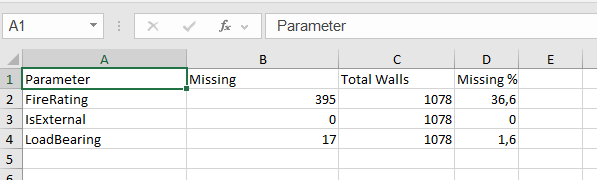
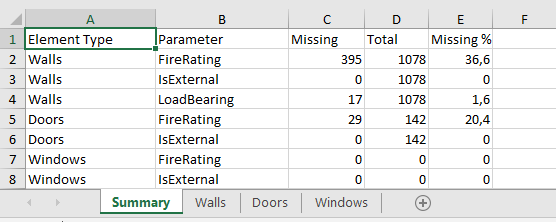
Add files via upload

diff --git a/check_elements.py b/check_elements.py
@@ -1,0 +1,49 @@
+import ifcopenshell
+import ifcopenshell.util.element as el
+from openpyxl import Workbook
+from collections import Counter
+
+IFC_FILE = "ornek.ifc"  # change to your IFC file name
+
+# element type -> (sheet name, property set, parameters to check)
+CHECKS = {
+    "IfcWall": ("Walls", "Pset_WallCommon", ["FireRating", "IsExternal", "LoadBearing"]),
+    "IfcDoor": ("Doors", "Pset_DoorCommon", ["FireRating", "IsExternal"]),
+    "IfcWindow": ("Windows", "Pset_WindowCommon", ["FireRating", "IsExternal"]),
+}
+
+model = ifcopenshell.open(IFC_FILE)
+wb = Workbook()
+wb.remove(wb.active)
+
+summary_rows = []
+
+for ifc_type, (sheet_name, pset_name, params) in CHECKS.items():
+    ws = wb.create_sheet(sheet_name)
+    ws.append(["GlobalId", "Name"] + params)
+
+    missing_count = Counter()
+    total = 0
+
+    for element in model.by_type(ifc_type):
+        total += 1
+        common = el.get_psets(element).get(pset_name, {})
+        row = [element.GlobalId, element.Name]
+        for p in params:
+            is_missing = common.get(p) in (None, "")
+            row.append("MISSING" if is_missing else "OK")
+            if is_missing:
+                missing_count[p] += 1
+        ws.append(row)
+
+    for p in params:
+        pct = round(100 * missing_count[p] / total, 1) if total else 0
+        summary_rows.append([sheet_name, p, missing_count[p], total, pct])
+
+summary = wb.create_sheet("Summary", 0)
+summary.append(["Element Type", "Parameter", "Missing", "Total", "Missing %"])
+for row in summary_rows:
+    summary.append(row)
+
+wb.save("report.xlsx")
+print("report.xlsx created")
